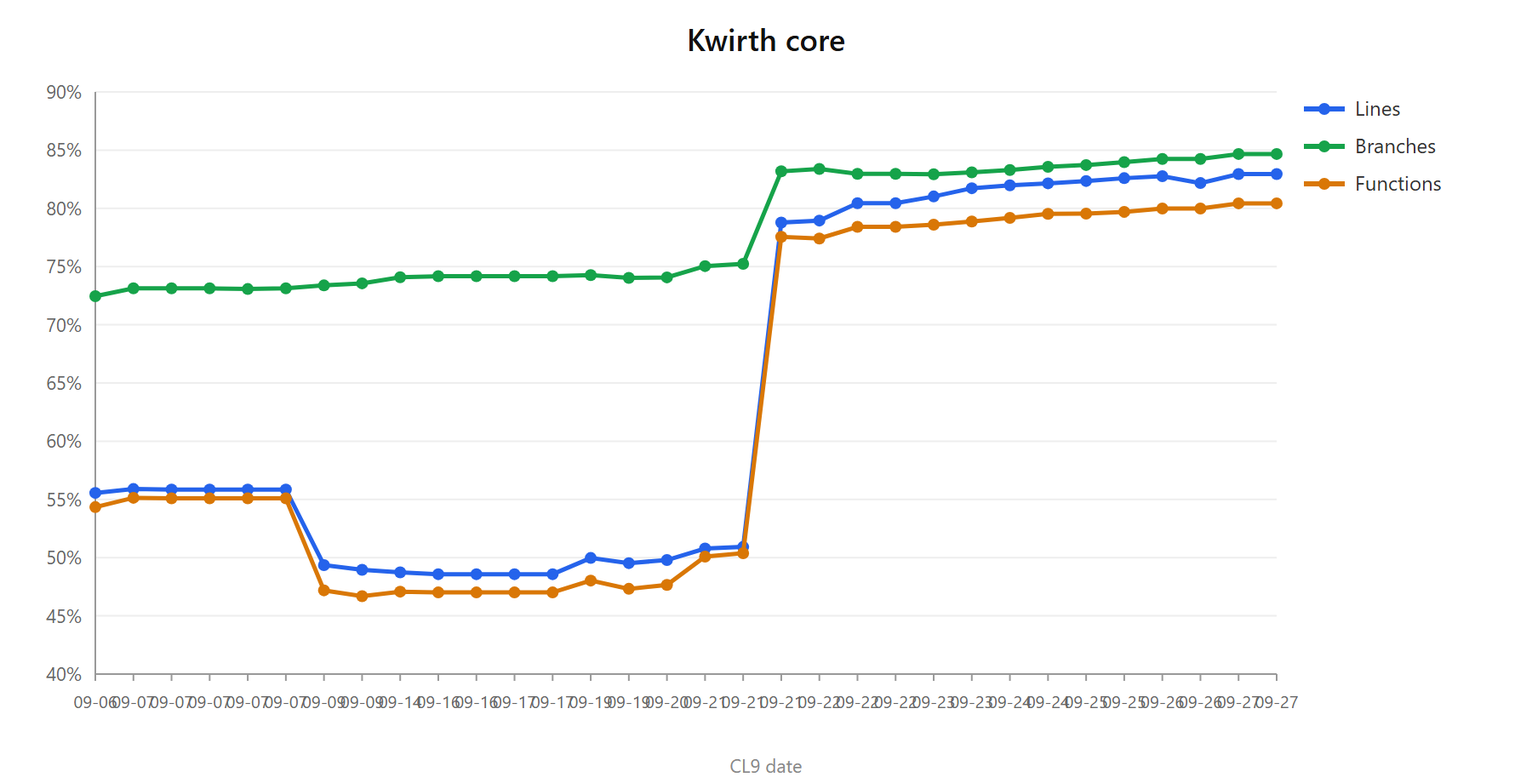
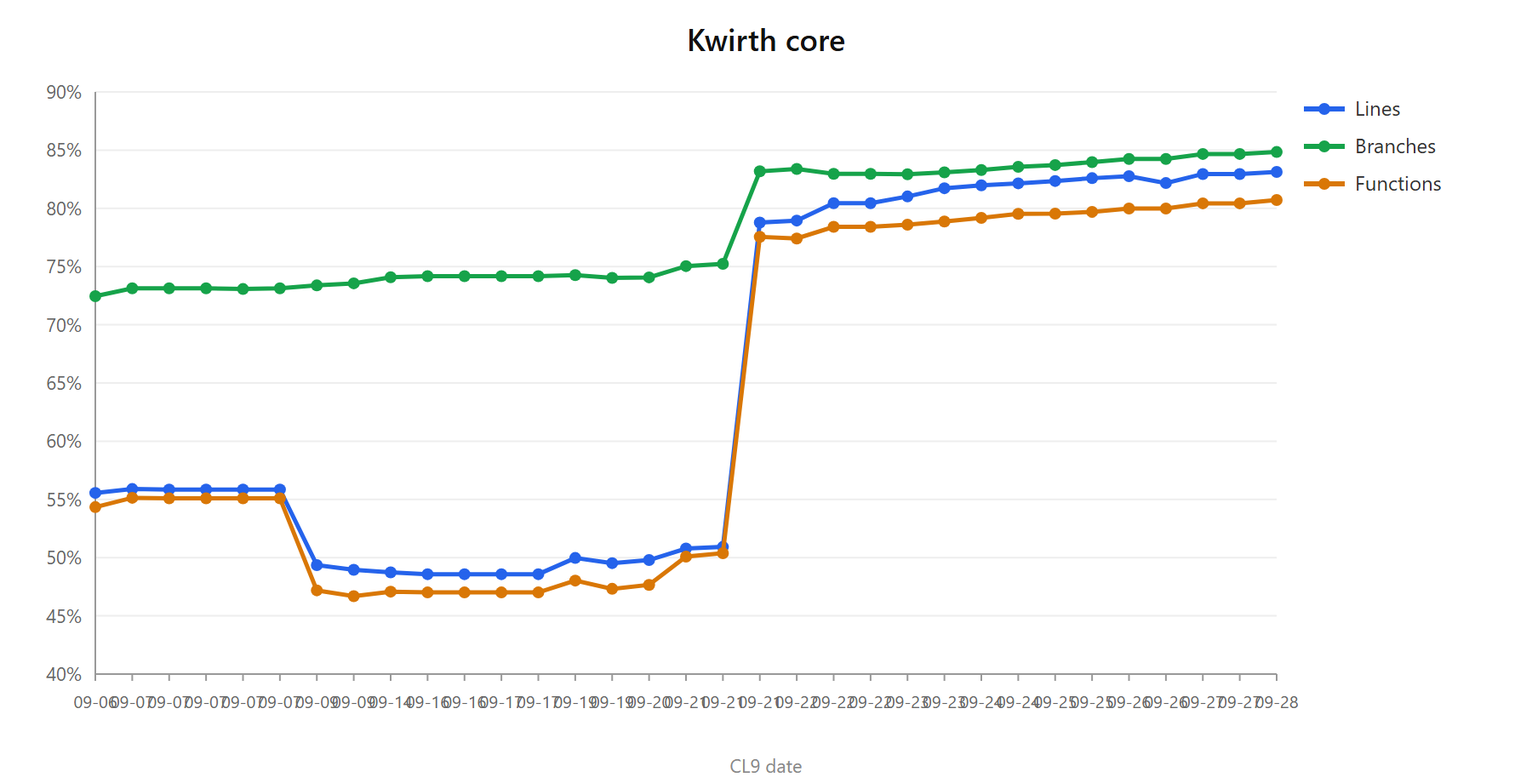
fix(core): a missing provider now says WHO was asking for it
"Required provider 'syslog' is not registered" says what is missing and not
who to go and look at. With fifteen channels installed that is a message you
cannot act on: it does not tell you whether the absent provider is the
problem or the channel demanding it is.

The information existed and was thrown away one line earlier. index.ts built
the list with channels.values().flatMap(...) over a Map whose KEY is the
channel id, so the key was dropped and every channel's requirements were
merged into one flat array of ids.

Requests now travel as (consumerId, targetId) pairs, and
findMissingSubscriptionTargets returns one entry per missing target carrying
every consumer that asked for it. The invariant it already had survives —
three channels asking for the same absent thing is ONE line, not three — but
it is no longer achieved by discarding the consumers: they are gathered into
that single entry, sorted so two identical startups read identically.

The provider-to-provider path is untouched: it has named its consumer since
F7.

Changed region(s): [[0.1556, 0.1826, 0.84, 0.7913], [0.0622, 0.8826, 0.8089, 0.913], [0.1556, 0.3652, 0.1867, 0.3957]]

diff --git a/back/tests/providers/pluviderSoftDependency.test.ts b/back/tests/providers/pluviderSoftDependency.test.ts
@@ -3,15 +3,19 @@
 // on what is missing: a provider that is declared and not registered is a misconfiguration, whereas an
 // absent pluvider is legitimate (its plugin may not be installed, or it may be a SINGLE channel announced
 // here as remote).
+//
+// And it has to say WHO asked. The id on its own cannot be acted upon: with fifteen channels installed,
+// 'syslog is missing' does not say which one to go and look at. That is what these tests pin down, because
+// the consumer used to be thrown away one line before the message was written.
 
 import test from 'node:test'
 import assert from 'node:assert/strict'
-import { findMissingSubscriptionTargets, TPluviderChannel } from '../../src/providers/Pluvider'
+import { findMissingSubscriptionTargets, ISubscriptionRequest, TPluviderChannel } from '../../src/providers/Pluvider'
 
 const fakePluvider = (id: string): TPluviderChannel => ({
     getChannelData: () => ({ id }),
     processProviderEvent: () => {},
-    getPluviderData: () => ({ description: `lo que produce ${id}` }),
+    getPluviderData: () => ({ description: `what ${id} produces` }),
     addSubscriber: async () => {},
     removeSubscriber: async () => {},
     startProvider: async () => {},
@@ -22,52 +26,84 @@ const fakePluvider = (id: string): TPluviderChannel => ({
 const REGISTERED = ['events', 'metrics']
 const PLUVIDERS = new Map<string, TPluviderChannel>([['plugin:agora', fakePluvider('agora')]])
 
-test('lo que esta disponible no se reporta como ausente', () => {
-    const missing = findMissingSubscriptionTargets(['events', 'metrics', 'plugin:agora'], REGISTERED, PLUVIDERS)
+/** Reads as the call site does: which channel asks for what. */
+const asks = (consumerId: string, ...targetIds: string[]): ISubscriptionRequest[] =>
+    targetIds.map(targetId => ({ consumerId, targetId }))
+
+test('what is available is not reported as missing', () => {
+    const missing = findMissingSubscriptionTargets(asks('montag', 'events', 'metrics', 'plugin:agora'), REGISTERED, PLUVIDERS)
     assert.deepEqual(missing.missingProviders, [])
     assert.deepEqual(missing.missingPluviders, [])
 })
 
-test('un provider pedido y no registrado se reporta como provider ausente', () => {
-    const missing = findMissingSubscriptionTargets(['events', 'trivy'], REGISTERED, PLUVIDERS)
-    assert.deepEqual(missing.missingProviders, ['trivy'])
+test('a provider asked for and not registered is reported, WITH whoever asked', () => {
+    const missing = findMissingSubscriptionTargets(asks('montag', 'events', 'trivy'), REGISTERED, PLUVIDERS)
+    assert.deepEqual(missing.missingProviders, [{ id: 'trivy', consumers: ['montag'] }])
     assert.deepEqual(missing.missingPluviders, [])
 })
 
-test('un pluvider pedido y no disponible se reporta APARTE, porque no es un error', () => {
-    const missing = findMissingSubscriptionTargets(['plugin:situs'], REGISTERED, PLUVIDERS)
+test('an absent pluvider is reported APART, because it is not an error, and also names its consumer', () => {
+    const missing = findMissingSubscriptionTargets(asks('excubitor', 'plugin:situs'), REGISTERED, PLUVIDERS)
     assert.deepEqual(missing.missingProviders, [])
-    assert.deepEqual(missing.missingPluviders, ['plugin:situs'])
+    assert.deepEqual(missing.missingPluviders, [{ id: 'plugin:situs', consumers: ['excubitor'] }])
 })
 
-test('los dos mundos se reportan por separado en la misma pasada', () => {
-    const missing = findMissingSubscriptionTargets(['trivy', 'plugin:situs', 'events', 'plugin:agora'], REGISTERED, PLUVIDERS)
-    assert.deepEqual(missing.missingProviders, ['trivy'])
-    assert.deepEqual(missing.missingPluviders, ['plugin:situs'])
+test('both worlds are reported separately in the same pass', () => {
+    const missing = findMissingSubscriptionTargets(asks('montag', 'trivy', 'plugin:situs', 'events', 'plugin:agora'), REGISTERED, PLUVIDERS)
+    assert.deepEqual(missing.missingProviders, [{ id: 'trivy', consumers: ['montag'] }])
+    assert.deepEqual(missing.missingPluviders, [{ id: 'plugin:situs', consumers: ['montag'] }])
 })
 
-test('un pluvider ausente NO se confunde con un provider ausente aunque se llamen igual', () => {
+test('an absent pluvider is NOT confused with an absent provider even when they share a name', () => {
     // a bare 'agora' is a provider that does not exist; 'plugin:agora' is a pluvider that does
-    const missing = findMissingSubscriptionTargets(['agora', 'plugin:agora'], REGISTERED, PLUVIDERS)
-    assert.deepEqual(missing.missingProviders, ['agora'])
+    const missing = findMissingSubscriptionTargets(asks('montag', 'agora', 'plugin:agora'), REGISTERED, PLUVIDERS)
+    assert.deepEqual(missing.missingProviders, [{ id: 'agora', consumers: ['montag'] }])
     assert.deepEqual(missing.missingPluviders, [])
 })
 
-test('el mismo id pedido por varios canales se reporta UNA vez', () => {
-    // three channels asking for the same thing must not produce three identical warnings at startup
-    const missing = findMissingSubscriptionTargets(['plugin:situs', 'plugin:situs', 'plugin:situs', 'trivy', 'trivy'], REGISTERED, PLUVIDERS)
-    assert.deepEqual(missing.missingPluviders, ['plugin:situs'])
-    assert.deepEqual(missing.missingProviders, ['trivy'])
+test('🔴 the same id asked for by several channels is ONE line that names them ALL', () => {
+    /*
+        The invariant that was already here —three channels asking for the same thing must not produce
+        three identical warnings— now has to hold WITHOUT losing anybody: one entry per missing target,
+        with every consumer inside it. Collapsing to one line used to be done by throwing the consumers
+        away, which is exactly the bug this fixes.
+    */
+    const missing = findMissingSubscriptionTargets([
+        ...asks('montag', 'plugin:situs', 'trivy'),
+        ...asks('excubitor', 'plugin:situs', 'trivy'),
+        ...asks('agora', 'plugin:situs')
+    ], REGISTERED, PLUVIDERS)
+    assert.deepEqual(missing.missingPluviders, [{ id: 'plugin:situs', consumers: ['agora', 'excubitor', 'montag'] }])
+    assert.deepEqual(missing.missingProviders, [{ id: 'trivy', consumers: ['excubitor', 'montag'] }])
 })
 
-test('sin nada pedido no hay nada que reportar', () => {
+test('the same channel asking twice for the same thing is named once', () => {
+    // a duplicate in 'requirements.providers' must not print the consumer twice in the same line
+    const missing = findMissingSubscriptionTargets(asks('montag', 'trivy', 'trivy'), REGISTERED, PLUVIDERS)
+    assert.deepEqual(missing.missingProviders, [{ id: 'trivy', consumers: ['montag'] }])
+})
+
+test('the consumers come out SORTED, so the same startup always reports the same way', () => {
+    // a line that changes order between restarts looks like a change when nothing changed
+    const missing = findMissingSubscriptionTargets([
+        ...asks('zulu', 'trivy'),
+        ...asks('alfa', 'trivy'),
+        ...asks('mike', 'trivy')
+    ], REGISTERED, PLUVIDERS)
+    assert.deepEqual(missing.missingProviders, [{ id: 'trivy', consumers: ['alfa', 'mike', 'zulu'] }])
+})
+
+test('with nothing asked for there is nothing to report', () => {
     const missing = findMissingSubscriptionTargets([], REGISTERED, PLUVIDERS)
     assert.deepEqual(missing.missingProviders, [])
     assert.deepEqual(missing.missingPluviders, [])
 })
 
-test('sin pluviders registrados, todo lo pedido con prefijo esta ausente', () => {
-    const missing = findMissingSubscriptionTargets(['plugin:agora', 'plugin:montag'], REGISTERED, new Map())
-    assert.deepEqual(missing.missingPluviders, ['plugin:agora', 'plugin:montag'])
+test('with no pluviders registered, everything asked for with the prefix is missing', () => {
+    const missing = findMissingSubscriptionTargets(asks('montag', 'plugin:agora', 'plugin:montag'), REGISTERED, new Map())
+    assert.deepEqual(missing.missingPluviders, [
+        { id: 'plugin:agora', consumers: ['montag'] },
+        { id: 'plugin:montag', consumers: ['montag'] }
+    ])
     assert.deepEqual(missing.missingProviders, [])
 })

diff --git a/back/src/providers/Pluvider.ts b/back/src/providers/Pluvider.ts
@@ -61,6 +61,22 @@ export const warnNameCollisions = (pluviderIds: string[], providerIds: string[],
 }
 
 /*
+    What somebody asked for, and WHO asked for it. The pair is the point: an id on its own cannot be
+    acted upon — with fifteen channels installed, knowing that 'syslog' is missing does not say which one
+    to go and look at, nor whether what is wrong is the absent provider or the one demanding it.
+*/
+export interface ISubscriptionRequest {
+    consumerId: string
+    targetId: string
+}
+
+/** A target nobody could provide, with EVERY consumer that asked for it. */
+export interface IMissingTarget {
+    id: string
+    consumers: string[]
+}
+
+/*
     Of everything the channels ASK FOR in 'requirements.providers', what is really not available. It is
     not the same as walking what is registered: an id that was asked for and is not registered appeared
     nowhere until somebody tried to subscribe to it.
@@ -69,23 +85,40 @@ export const warnNameCollisions = (pluviderIds: string[], providerIds: string[],
     is declared and not registered is a misconfiguration. An absent pluvider is legitimate: its plugin may
     not be installed, or it may be a SINGLE channel announced here as remote — and the consumer has to go
     on working without it.
+
+    One entry per missing TARGET, not per request: three channels asking for the same absent thing is one
+    problem, and three identical lines at startup is noise. The consumers are gathered into that single
+    entry instead, which is what turns the report into something actionable.
 */
 export const findMissingSubscriptionTargets = (
-    requestedIds: string[],
+    requests: ISubscriptionRequest[],
     registeredProviderIds: string[],
     pluviders: Map<string, TPluviderChannel>
-): { missingProviders: string[], missingPluviders: string[] } => {
-    const missingProviders: string[] = []
-    const missingPluviders: string[] = []
-    for (const id of new Set(requestedIds)) {
-        if (isPluviderId(id)) {
-            if (!pluviders.has(id)) missingPluviders.push(id)
+): { missingProviders: IMissingTarget[], missingPluviders: IMissingTarget[] } => {
+    const missingProviders = new Map<string, Set<string>>()
+    const missingPluviders = new Map<string, Set<string>>()
+
+    const note = (into: Map<string, Set<string>>, targetId: string, consumerId: string): void => {
+        const consumers = into.get(targetId)
+        if (consumers) consumers.add(consumerId)
+        else into.set(targetId, new Set([consumerId]))
+    }
+
+    for (const { consumerId, targetId } of requests) {
+        if (isPluviderId(targetId)) {
+            if (!pluviders.has(targetId)) note(missingPluviders, targetId, consumerId)
         }
-        else if (!registeredProviderIds.includes(id)) {
-            missingProviders.push(id)
+        else if (!registeredProviderIds.includes(targetId)) {
+            note(missingProviders, targetId, consumerId)
         }
     }
-    return { missingProviders, missingPluviders }
+
+    // Sorted so the same startup always reports the same way: a line that changes order between restarts
+    // looks like a change when nothing changed.
+    const asList = (found: Map<string, Set<string>>): IMissingTarget[] =>
+        [...found].map(([id, consumers]) => ({ id, consumers: [...consumers].sort() }))
+
+    return { missingProviders: asList(missingProviders), missingPluviders: asList(missingPluviders) }
 }
 
 /*

diff --git a/back/src/index.ts b/back/src/index.ts
@@ -1881,13 +1881,21 @@ const setKubernetesClusterKwirthRequirements = async (runningInstance:IRunningIn
             —its plugin may not be installed, or it may be a SINGLE channel announced here as remote—
             and the consumer carries on without it (warning). That is the soft dependency.
         */
-        const requestedIds = Array.from(runningInstance.channels.values()).flatMap(c => c.requirements.providers)
-        const missing = findMissingSubscriptionTargets(requestedIds, Array.from(registeredProviders.keys()), localClusterInfo.pluviders)
-        for (const provId of missing.missingProviders) {
-            logError(ELogComponent.CORE, `Required provider '${provId}' is not registered`)
+        /*
+            ⚠ 'entries()', not 'values()'. The Map's KEY is the channel's id, and it used to be dropped
+            here: a flatMap merged every channel's list into one flat array of ids, so by the time the
+            line was written there was no way back to who had asked. The message was correct and could
+            not be acted upon — 'syslog is missing' does not say which of fifteen channels to go and look
+            at. The consumer travels with its request from here on.
+        */
+        const requests = Array.from(runningInstance.channels.entries())
+            .flatMap(([channelId, channel]) => channel.requirements.providers.map(targetId => ({ consumerId: channelId, targetId })))
+        const missing = findMissingSubscriptionTargets(requests, Array.from(registeredProviders.keys()), localClusterInfo.pluviders)
+        for (const provider of missing.missingProviders) {
+            logError(ELogComponent.CORE, `Required provider '${provider.id}' is not registered — required by: ${provider.consumers.join(', ')}`)
         }
-        for (const pluvId of missing.missingPluviders) {
-            logWarning(ELogComponent.CORE, `Pluvider '${pluvId}' is required by a channel but is not available here (its plugin is not installed, or is not hosted by this Kwirth)`)
+        for (const pluvider of missing.missingPluviders) {
+            logWarning(ELogComponent.CORE, `Pluvider '${pluvider.id}' is not available here (its plugin is not installed, or is not hosted by this Kwirth) — required by: ${pluvider.consumers.join(', ')}`)
         }
 
         

diff --git a/docs/qa/test-metrics-history.md b/docs/qa/test-metrics-history.md
@@ -38,6 +38,7 @@
 
 | Fecha | Cierre | Harness | Cobertura (líneas / ramas / funcs) | e2e | Notas |
 |---|---|---|---|---|---|
+| 2026-09-28 | Un provider ausente dice QUIÉN lo pedía | 526 ⚠ | 83.13 % / 84.84 % / 80.72 % | 34 specs · 153 casos · no corridos (el cambio no tiene superficie e2e) | **Un mensaje correcto y que no servía para actuar.** `Required provider 'syslog' is not registered` dice lo que falta y no a quién ir a mirar: con quince canales instalados no se sabe cuál lo pedía, ni si sobra el provider o sobra quien lo pide. Lo reportó el usuario. **El dato existía y se tiraba una línea antes**: `index.ts:1884` hacía `Array.from(runningInstance.channels.values()).flatMap(...)` sobre un **Map cuya clave es el id del canal**, así que `.values()` la descartaba y `flatMap` fundía las listas de todos en un array plano; para cuando se escribía la línea ya no había forma de volver atrás. Ahora viajan pares `(consumerId, targetId)` y `findMissingSubscriptionTargets()` devuelve **un entry por target con TODOS sus consumidores**, no ids sueltos. Se conserva el invariante que ya había —tres canales pidiendo lo mismo son **una** línea, no tres iguales—, que antes se conseguía justamente **tirando** los consumidores: ahora se agrupan dentro de esa única entrada. Salen **ordenados** a propósito, para que dos arranques iguales no se lean distinto. ⚠ **No se tocó la vía provider→provider** (`index.ts:1967`): esa ya nombraba a su consumidor desde F7, y el hueco era solo el de canales. **+2 casos** (de 8 a 10 en `pluviderSoftDependency`), y los dos nuevos cubren justo lo que el diseño podía romper: que agrupar no pierda a nadie, y que un canal que pide dos veces lo mismo no salga duplicado en la línea. ⚠ **El 526 no es todo de este cierre**: el árbol lleva también los tests de otra sesión en curso (`extensionConsumer.test.ts`), sin commitear; de este stream son +2. ⚠ **`webhookManager` › *two configs get distinct tokens…* falló en una corrida con un `TypeError` y pasó en la siguiente** — es el intermitente de ese fichero que ya está anotado arriba, no este cambio, pero sigue mordiendo. |
 | 2026-09-27 | El log del core se ve desde el front | 514 ✅ | 82.95 % / 84.67 % / 80.43 % | **34 specs · 153 casos** · del nuevo: **1 ✅ / 1 ⏭** | **El punto que la fila anterior dejó pendiente.** Configurar el log estaba resuelto; **verlo** exigía salir de Kwirth —`kubectl logs`, o la consola del nodo—, que es justo lo que no se tiene a mano cuando algo va mal dentro del clúster. Ahora hay `GET /managekwirth/log` al lado de `/previouslog`, con su **misma puerta admin-only** (son trazas internas del core: nombres de recursos, rutas, errores de extensiones), leyendo el contenedor **actual** con el mismo `readNamespacedPodLog` que ya usaba `PreviousContainerLog`, sin `previous`; `tailLines` llega por query y se acota a 1..10000, porque un tail de millones de líneas es pedirle al core que se cargue el log entero en memoria para contestar a un diálogo. En el front, botón *Core log* y su diálogo en el About, con un `ansiToSpans` local: se pide **al pulsar**, no al abrir el About —el log anterior lo tiene el core en memoria desde que arrancó, este es una lectura viva y quien entra a mirar la versión no tiene por qué pagarla. 🔴 **Se descartó la vía obvia**, que era montar el diálogo sobre el **canal `log`** apuntado al pod de Kwirth (hay precedente: `ContentExternal.tsx` de magnify ya monta el `TabContent` de otro canal fuera de su pestaña). Decisión del usuario —no tocar lo que ya funciona— y el reconocimiento le dio la razón dos veces: el canal `log` es un **plugin instalable**, así que el core pasaría a depender de una extensión para enseñar su propio log, y además **borra el ANSI** con `cleanANSI()`, con lo que el visor habría salido en blanco y negro, que era la mitad del encargo. ⚠ **El conflicto del ANSI no está resuelto, está esquivado**: el visor interpreta los códigos que lleguen, así que apagar *Colour the output* para llevarse un log limpio a un fichero deja el visor en gris. Queda anotado en el plan, sin discutir. ⚠ **Solo con Kwirth corriendo como POD**: `inCluster` solo se pone a `true` en `index.ts:279`, la rama que lee su propio pod; desktop, docker y ECS lo dejan en `false` y el diálogo contesta **200 con el motivo**, no un error — «no hay log y es por esto» es una respuesta, no una petición fallida. Es la misma limitación que habría tenido la vía del canal `log`. **+0 harness y cobertura idéntica al dígito**: `ManageKwirthApi` no lo carga el harness, así que las líneas nuevas no entran en la medida; lo que las cubre es el e2e. **+1 spec, +2 casos** (`about-core-log`), y el segundo es el que importa: comprueba que los escapes ANSI **no** llegan a pantalla como texto, que es el fallo que dejaría el visor pareciendo salida corrupta en vez de un parser roto. 🔴 **Y ese caso aquí sale ⏭, no ✅**: un Kwirth de desarrollo corre desde el fuente contra el clúster, **no como pod**, así que el core contesta con el motivo y no hay una sola línea coloreada que mirar. Escrito como `if/else` el caso se iba por la rama vacía y la corrida salía **verde igualmente** —afirmando que el visor estaba verificado cuando la única aserción que valía no se había ejecutado—, así que ahora es un `test.skip()` explícito. La misma razón deja **la captura de la guía pendiente**: `capture-about-core-log.spec.ts` está escrito y no se puede correr aquí; necesita un Kwirth desplegado (`KWIRTH_E2E_URL=<url> playwright test --config playwright.capture.config.ts capture-about-core-log.spec.ts`). 🔴 **Corregido el recuento de la columna e2e**: las dos filas anteriores decían *32 specs · 130 casos* y el árbol en HEAD ya tenía **33 specs · 151 casos** antes de este cierre. El método está escrito en la cabecera de este fichero (ficheros `*.spec.ts` menos `capture-*`, y `test(` dentro); el número venía arrastrado, no medido. |
 | 2026-09-27 | El log del core se configura, y por fin se puede callar | **514** ✅ | **82.95 % / 84.67 % / 80.43 %** | 32 specs · 130 casos · no corridos (sin superficie e2e nueva) | **Lo que se podía configurar del log era nada.** Los componentes habilitados eran una **constante del módulo** —`[chan, core, prov, send]`—, así que `auth` y `stor` estaban **mudos sin forma de encenderlos**, no había filtro por **nivel** (o pasaba todo lo del componente, o nada) y `ansiLog` solo se podía tocar por la variable `ANSILOG`, sin sobrevivir a un reinicio. Ahora `IKwirthSettings.log` lleva un nivel **por componente** y, además, **por id**: `chan:excubitor` gana a `chan`, que es lo que permite subir UN canal a trace sin ahogarse en el resto. Se aplica **en caliente** —el log es justo lo que se sube mientras algo va mal, y exigir un reinicio se llevaría por delante el problema que se está diagnosticando—, en el arranque y en cada PUT. 🔴 **Un ERROR no se silencia nunca**, ni con su componente en `off`: el filtro baja el ruido, no esconde fallos. El front **no conoce el enum**: el back publica los componentes y sus ids en `GET /core/settings/log/components`, el mismo patrón que el catálogo de scopes RBAC — mover `ELogComponent` a `common` habría sido reescribir el import de **47 ficheros** y dejar dos listas que mantener a la vez. Los ids salen de `componentLogger()`, que se llama al arrancar cada canal, provider o sender: lo que se ofrece es lo que **puede escribir de verdad**, sin registro que enchufar. 🔴 **Bug cazado por los tests nuevos, no por el QA**: los overrides por id se **descartaban en silencio** al aplicarlos (la validación comprobaba la clave entera contra los seis componentes, y `chan:excubitor` no es ninguno), así que el diálogo los guardaba y los mostraba de vuelta mientras el canal seguía escribiendo al nivel de su componente — indistinguible de funcionar salvo mirando si trazaba. **+12 tests** (`tests/tools/logging`). De paso, `validNamespaces/Controllers/Pods/Containers` pasan de `info` a **`trace`**: son volcados de listas internas en cada arranque de instancia, y como `info` no se podían quitar sin silenciar todo `auth`. ⚠ **Sin e2e**: la superficie es un diálogo de settings y el efecto observable está en el log del proceso, no en la SPA. |
 | 2026-09-26 | Las 43 tools viejas, fuera de `common-ai` | **502** ✅ | 82.17 % / 84.24 % / 79.98 % | 32 specs · 126 casos · **12 corridos ✅** (los dos de toolsets) | Cierre del **paso 2** de `plans/ai-tools`: el catalogo compilado dentro del core desaparece. Se van `tools` (las 43, ~810 lineas), `toolInfoList`, `selectAgentToolNames` y `runAgent`; `back.ts` pasa de **1777 a 866 lineas** y su bundle de **131.909 a 35.959 bytes (−73 %)**, que es lo que ocupaban las tools en CADA sitio donde viaja common-ai. Antes de borrar se comprobo que no las usa nadie: **1064 ficheros escaneados** —`src/**` y `dist/*.js`— en las **diez** familias de extensiones (plugins, providers, senders, webhooks, logins, idps, homepages, themes, packs, aitoolsets) mas el back, el front y los common-*; las unicas menciones eran **comentarios** de Agora explicando su propia migracion. Se miraron las dos capas a proposito: el fuente, que se recompila, y el `dist` construido, que es lo que el core carga y que seguiria llamando al global aunque su fuente ya no lo haga. **Se conservan dos cosas**: `IAgentRunResult`, porque Agora extiende esa forma en `IBotAgentResult`, y `runWithToolContext`, que `buildAgentTools` sigue usando como red para tools escritas contra el contrato viejo (retirarla es otra decision, no esta). Se fueron con ellas cuatro imports que quedaban huerfanos (`exec`, `promisify`, `tls`, `IAgent`) y **dos tests que se quedaron sin sujeto**: el `agent.test.mjs` entero (10 casos que solo probaban el catalogo viejo) y el que comprobaba que una tool del contrato VIEJO seguia corriendo por el camino nuevo — lo ejercitaba con una de las 43 DE VERDAD (`list_namespaces`) porque el accesor `ctx()` no se exporta, asi que sin ellas no hay forma honesta de probarlo. `common-ai` baja de 46 a **35**, todos verdes. ⚠ **Riesgo que no vive en este repo**: el core publica todo `common-ai/back` en `global.__kwirth_back__`, asi que un `dist` publicado ANTES de S3 (agora ≤ 0.1.54) llamaria a `runAgent` desde el global y ahora no lo encontraria. En el monorepo no queda ninguno —verificado en los 22 `dist/back.js`—, pero los tgz ya publicados en npm y Nexus si: es el patron del barrel de iconos, quitar un export rompe lo construido, no lo que se recompila. ⚠ **El salto de harness (316 → 502) y de cobertura (49,97 % → 82,17 %) NO es de este stream**: viene del trabajo en curso de otra sesion (storeLimit/LoginManager y sus tests), que estaba en el arbol al medir. De este cierre es solo el descenso de `common-ai`. |

diff --git a/plans/pluvider/PLAN.md b/plans/pluvider/PLAN.md
@@ -692,20 +692,33 @@ motivó F6: sus consumidores lo verían ausente mientras nadie más lo pidiera.
 
 ## Backlog que deja este trabajo
 
-- ⚠ **`Required provider 'X' is not registered` no dice QUIÉN lo pide** (usuario, 2026-09-27). El
-  mensaje es correcto y no sirve para actuar: con quince canales instalados, saber que falta `syslog`
-  no dice a cuál hay que ir a mirar, ni si sobra el provider o sobra quien lo pide.
+- ✅ **`Required provider 'X' is not registered` ya dice QUIÉN lo pide** — pedido por el usuario el
+  2026-09-27, **hecho y validado el 2026-09-28**.
 
-  **El dato existe y se tira una línea antes.** `back/src/index.ts:1884` hace
+  El mensaje era correcto y no servía para actuar: con quince canales instalados, saber que falta
+  `syslog` no decía a cuál ir a mirar, ni si sobraba el provider o sobraba quien lo pedía.
+
+  **El dato existía y se tiraba una línea antes.** `index.ts:1884` hacía
   `Array.from(runningInstance.channels.values()).flatMap(c => c.requirements.providers)`: `channels` es
-  un **Map** cuya clave es el id del canal, y `.values()` la descarta antes de que `flatMap` funda las
-  listas de todos los canales en un array plano. Para cuando se emite el error en `:1887` ya no hay
-  forma de volver atrás. Bastaría llevar pares `(consumidor, providerId)` en vez de ids sueltos.
+  un **Map** cuya clave es el id del canal, y `.values()` la descartaba antes de que `flatMap` fundiera
+  las listas de todos en un array plano. Ahora viajan pares `(consumerId, targetId)` y
+  `findMissingSubscriptionTargets()` devuelve **un entry por target con todos sus consumidores**
+  (`IMissingTarget`), no ids sueltos.
 
-  Son **tres sitios**, no uno: `:1887` (lo pide un canal), `:1923` (lo pide otro provider — ahí el
-  consumidor también se conoce) y el warning de pluviders de `:1890`, que dice *«is required by a
-  channel»* sin nombrarlo. `findMissingSubscriptionTargets()` recibe hoy `string[]`, así que el cambio
-  le toca a ella y a sus tests.
+  🔴 **El invariante que había que no romper**: tres canales pidiendo lo mismo son **una** línea, no
+  tres iguales — y eso antes se conseguía **tirando** a los consumidores. Agrupar sin perder a nadie es
+  justo lo que hacen los dos tests nuevos, junto con que un canal que pide dos veces lo mismo no salga
+  duplicado. Los consumidores salen **ordenados**, para que dos arranques iguales no se lean distinto.
+
+  ⚠ **Solo se tocó la vía de canales.** La de provider→provider (`:1967`) ya nombraba a su consumidor
+  desde F7 (`Provider 'X' consumes 'Y', which is not installed`), y `:1923` es defensivo: sus dos
+  llamantes comprueban `registeredProviders` antes, así que no se alcanza.
+
+  Resultado en el log:
+  ```
+  [core] [ERRO] Required provider 'syslog' is not registered — required by: montag
+  [core] [WARN] Pluvider 'plugin:situs' is not available here (...) — required by: excubitor
+  ```
 
 - ⚠ **La instalación en caliente no espera a `startProvider()`** (lo lanza sin `await`), al contrario
   que el arranque. F7 mantiene ese comportamiento para no cambiar dos cosas a la vez. Un consumidor
